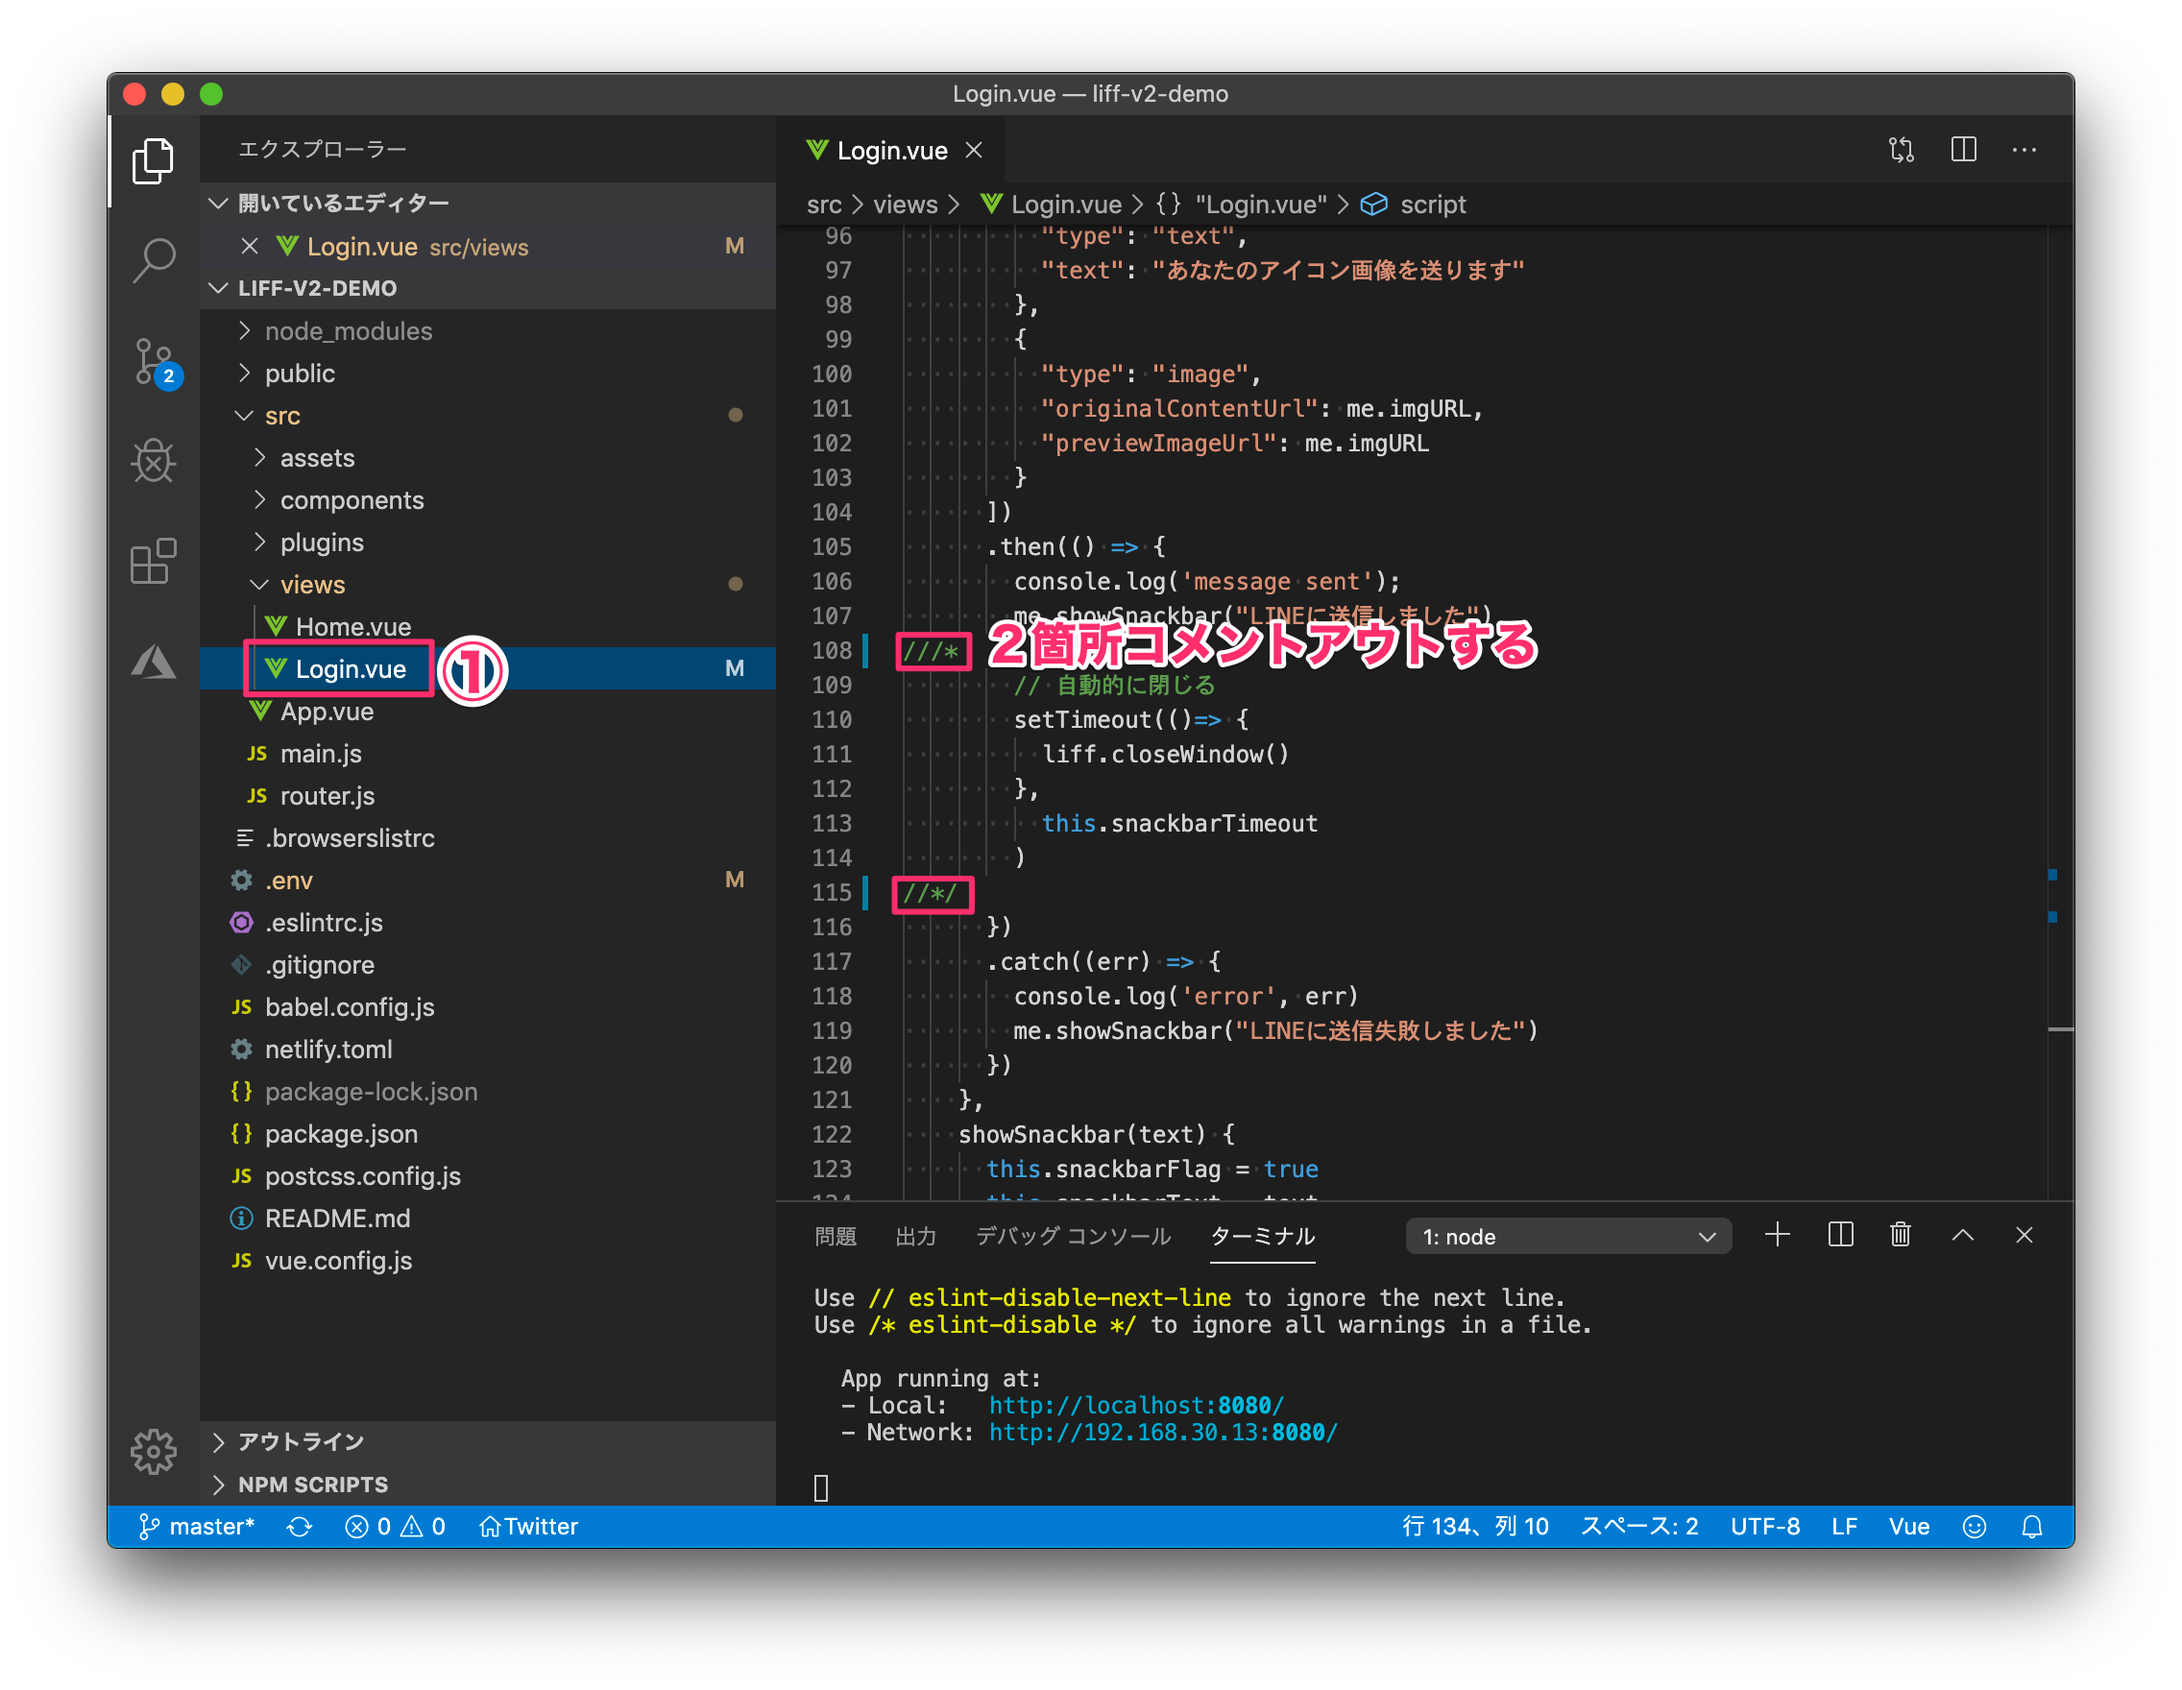
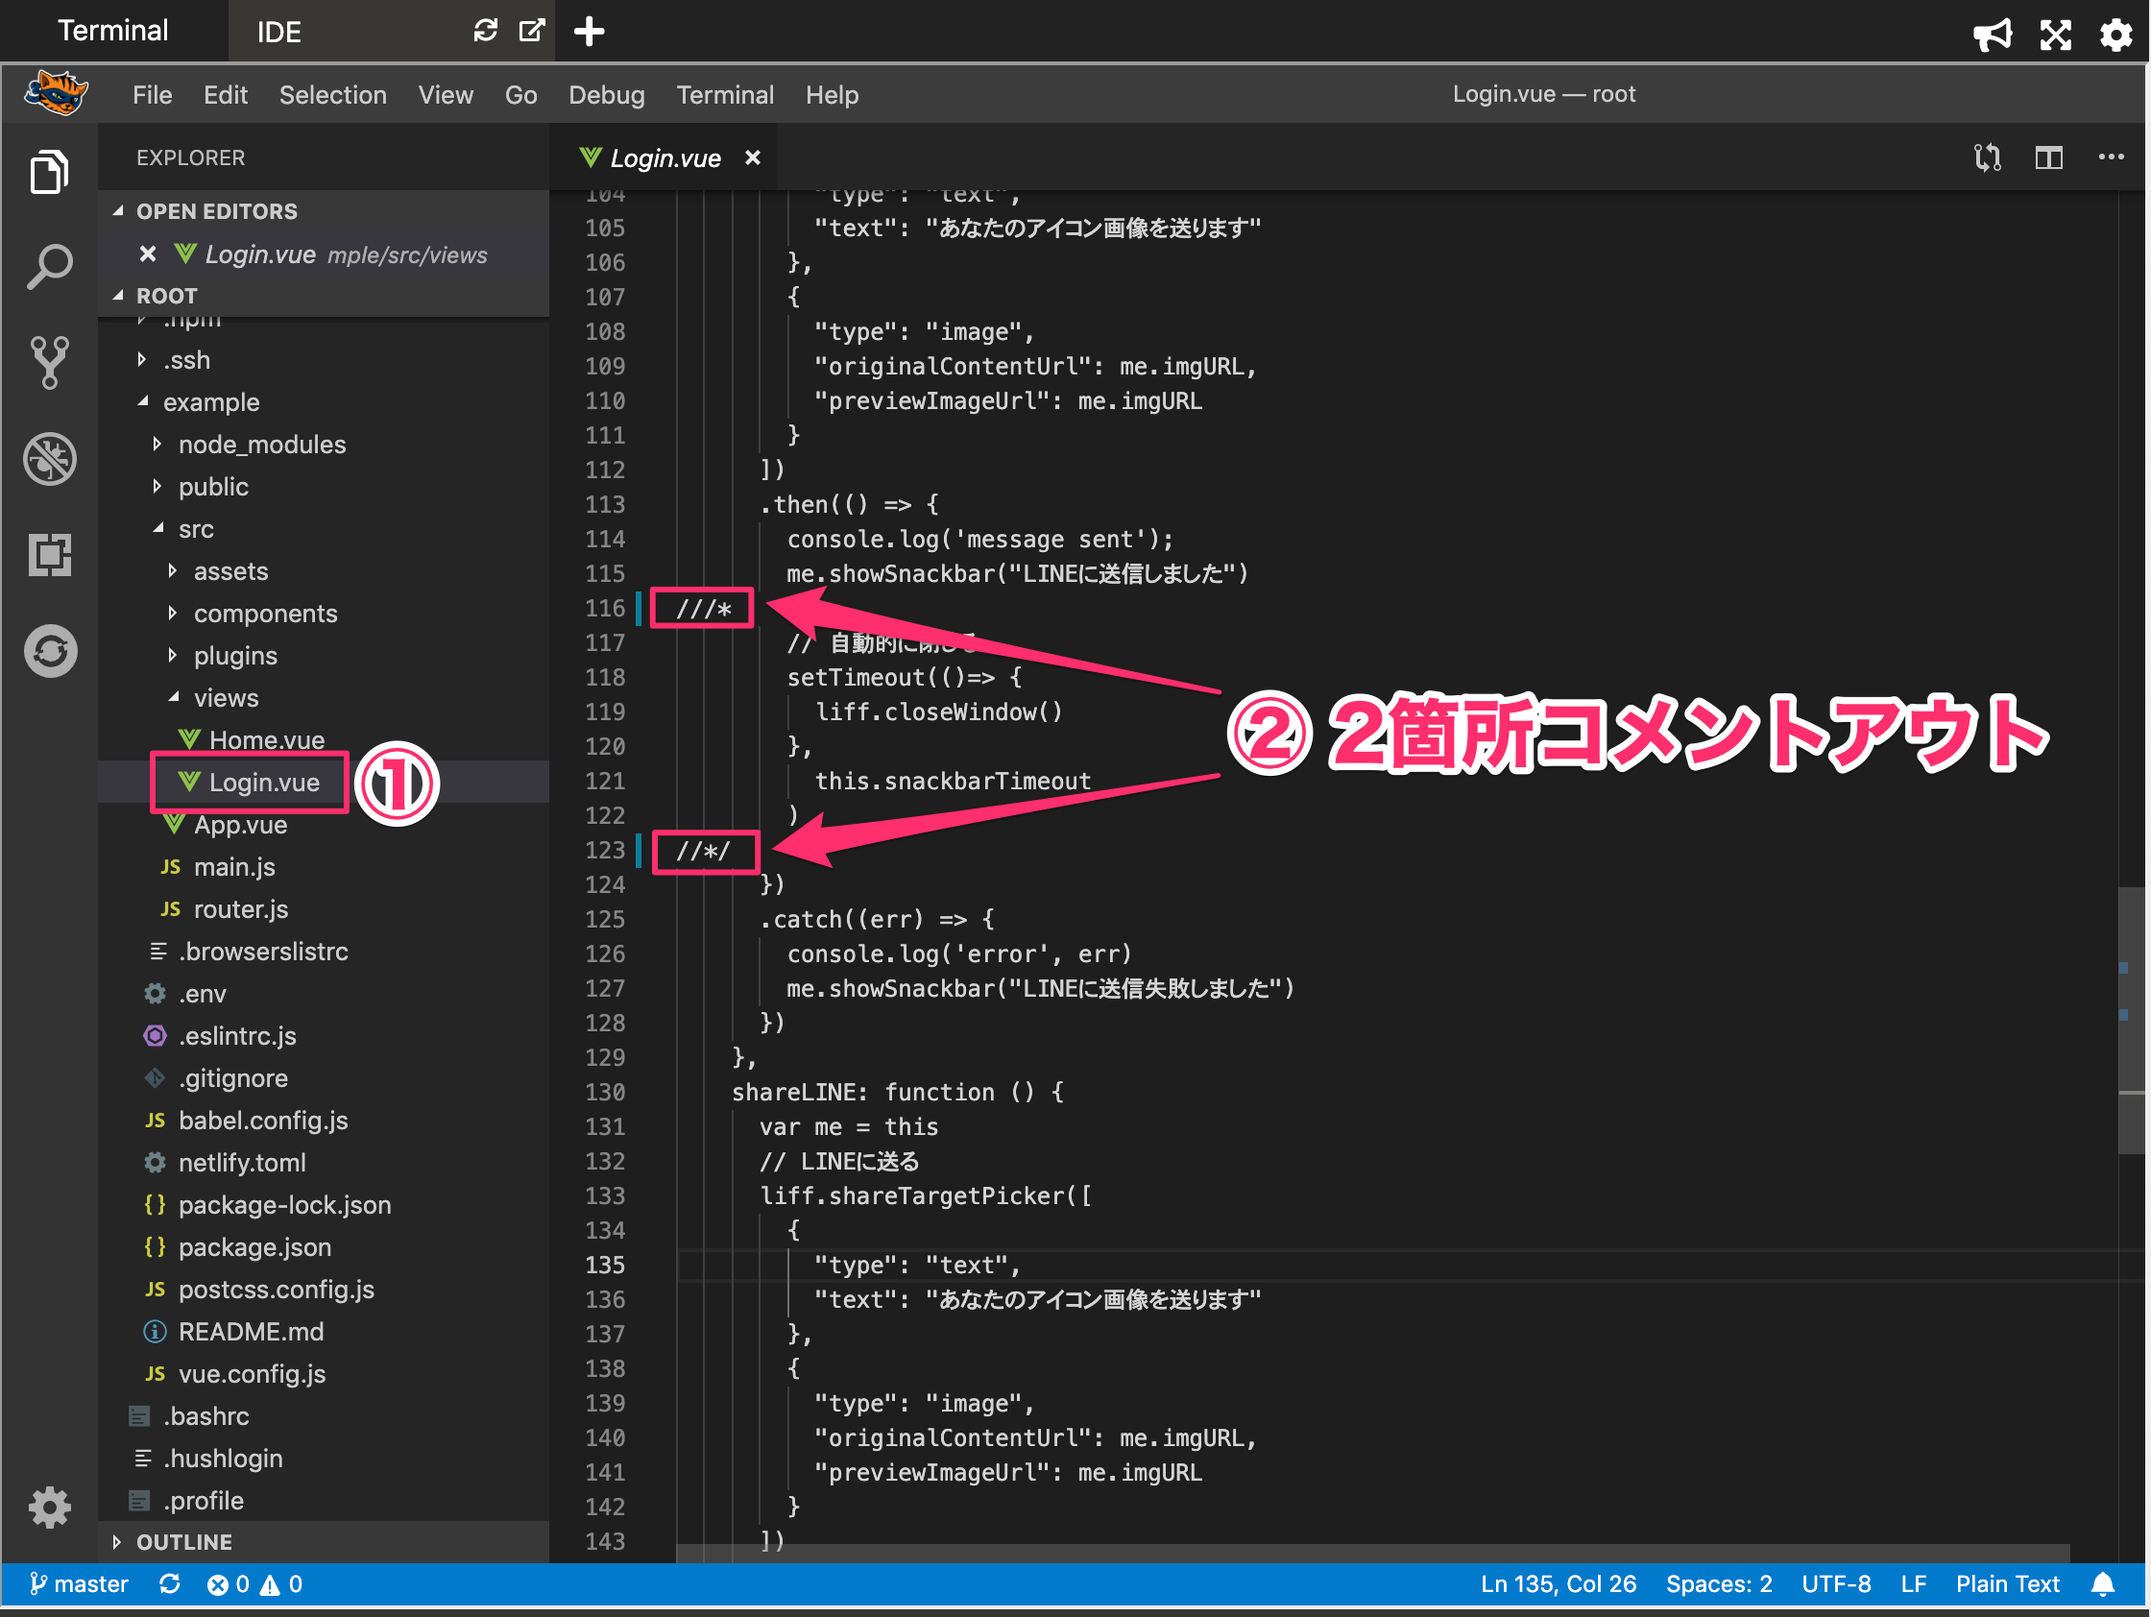
LINEシェア機能追加

diff --git a/liff-v2-handson-playground/step4.md b/liff-v2-handson-playground/step4.md
@@ -1,0 +1,38 @@
+### 4-1. シェア機能とは
+2020年3月3日にShare Target Pickerという機能がリリースされました。
+
+[https://engineering.linecorp.com/ja/blog/liff-share-target-picker/](https://engineering.linecorp.com/ja/blog/liff-share-target-picker/)
+
+これはLIFF上から送信先を選んで任意のメッセージを送信することができる機能です。
+
+### 4-2. シェア機能を有効化する
+シェア機能を有効化する設定を行います。「シェアターゲットピッカー」を有効化します。
+
+![s500](https://raw.githubusercontent.com/gaomar/katacoda-scenarios/master/liff-v2-handson-playground/images/s500.png)
+
+情報利用に関するお願いを下までスクロールして同意するにチェックを付けてください。「有効化」ボタンが押せるようになります。［有効化］ボタンをクリックします。
+
+![s501](https://raw.githubusercontent.com/gaomar/katacoda-scenarios/master/liff-v2-handson-playground/images/s501.png)
+
+### 4-3. プログラムを修正する
+プログラムコードを少し改変してみましょう。src/views/Login.vueファイルを開きます。
+18行目と24行目の2箇所コメントアウトしてコードを有効化します。
+
+```javascript
+<!--   ← 削除（18行目）
+      <v-flex mb-4 xs12>
+        <div class="ma-4">
+          <v-btn large color="success" @click="shareLINE">LINEにシェア</v-btn>
+        </div>
+      </v-flex>
+-->   ← 削除（24行目）
+```
+
+![s502](https://raw.githubusercontent.com/gaomar/katacoda-scenarios/master/liff-v2-handson-playground/images/s502.png)
+
+### 4-4. 動作確認する
+これでLIFFを再度表示すると、「LINEにシェア」ボタンが追加されています。ボタンをクリックすると、送信したい人のリストが表示されます。［シェア］ボタンをクリックすると、アイコン画像がシェアされます。
+![s503](https://raw.githubusercontent.com/gaomar/katacoda-scenarios/master/liff-v2-handson-playground/images/s503.png)
+
+LINEログインからLINEメッセージ送信、LINEシェア機能までを行いました。LIFFを駆使して面白いアプリを作ってみましょう！
+
